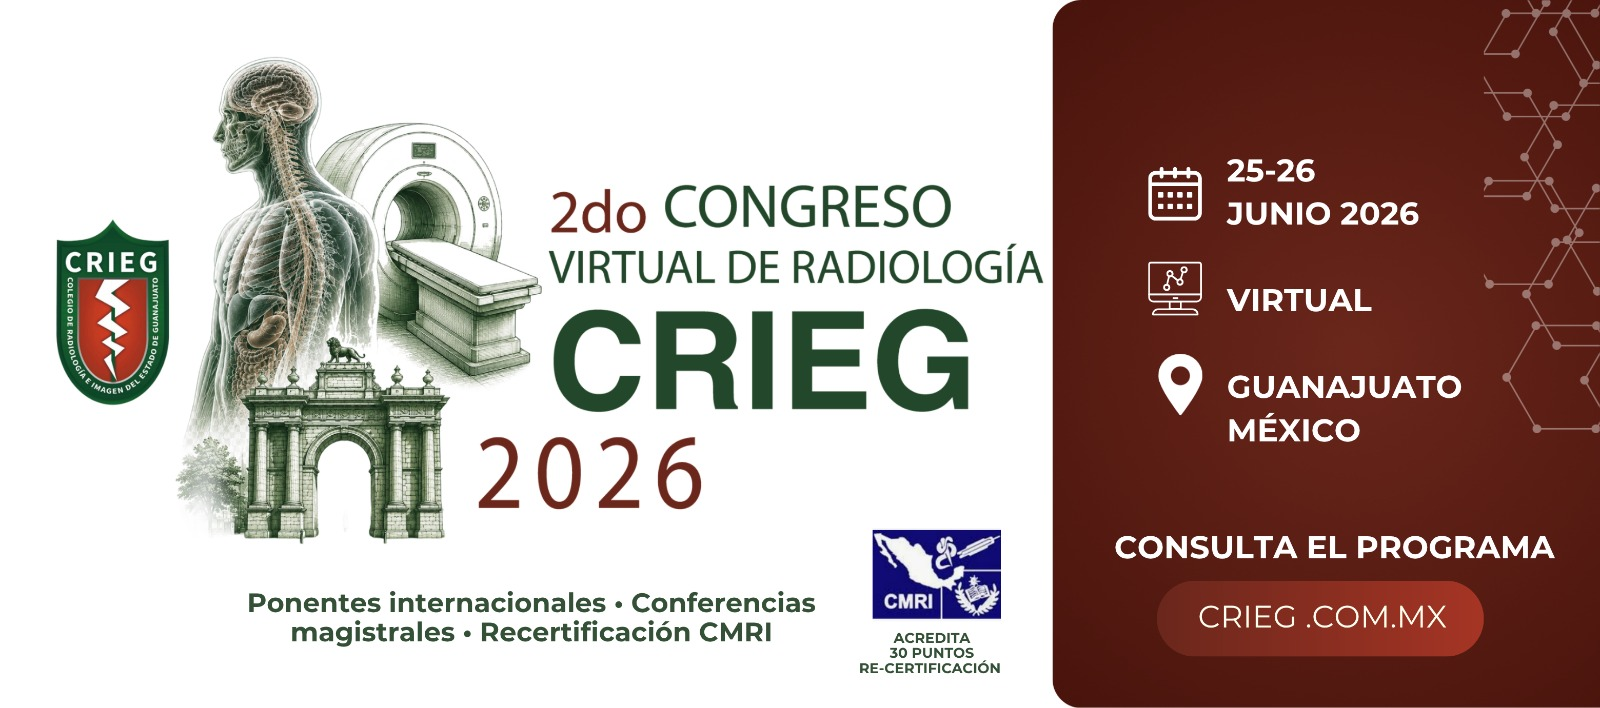
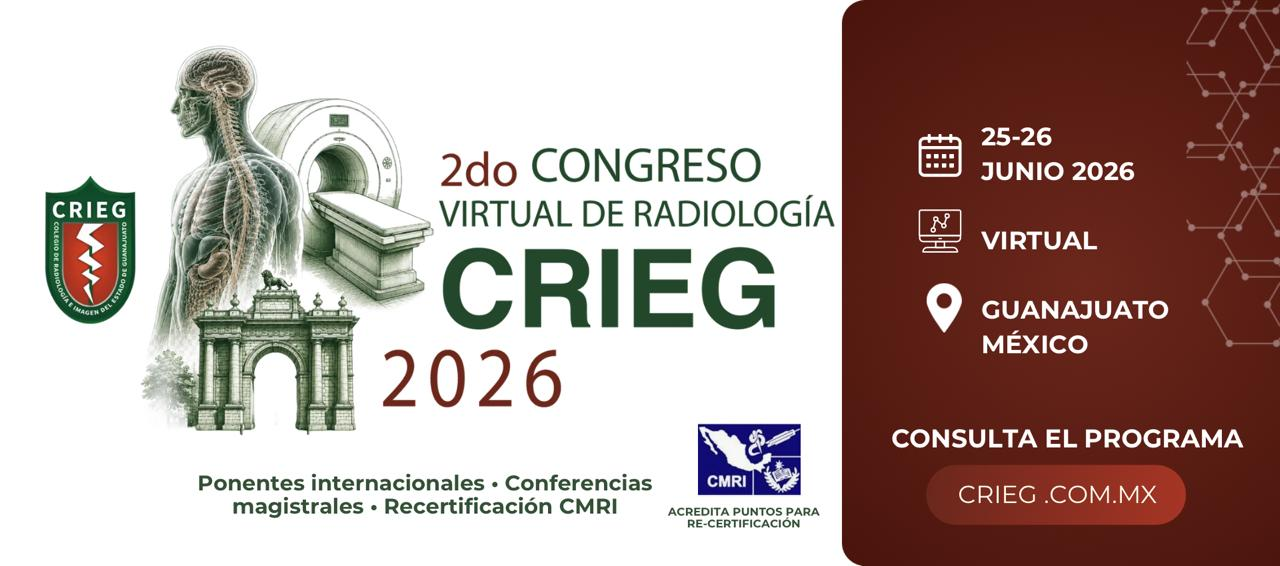
feat: Quitar timer y cambio de imagen

diff --git a/src/components/HeroBanner.tsx b/src/components/HeroBanner.tsx
@@ -5,13 +5,9 @@ import { ArrowUpRight, ScrollText } from "lucide-react";
 import Link from "next/link";
 import { useState, useEffect } from "react";
 
-const congresoActivo = new Date() >= new Date("2026-06-02T15:00:00");
-
 const slides = [
   { src: "/banner.webp", alt: "Banner CRIEG" },
-  ...(congresoActivo
-    ? [{ src: "/banner-congreso.webp", alt: "Congreso CRIEG 2026" }]
-    : []),
+  { src: "/banner-congreso.webp", alt: "Congreso CRIEG 2026" },
 ];
 
 export default function HeroBanner() {
@@ -24,11 +20,8 @@ export default function HeroBanner() {
     return () => clearInterval(timer);
   }, []);
 
-  const slide = slides[current];
-
   return (
     <section className="relative w-full h-screen sm:h-screen lg:h-full lg:min-h-[820px] overflow-hidden">
-      {/* Background images */}
       {slides.map((s, i) => (
         <div
           key={i}
@@ -46,26 +39,20 @@ export default function HeroBanner() {
         </div>
       ))}
 
-      {/* Top gradient */}
       <div className="absolute inset-x-0 top-0 bg-linear-to-b from-black/70 to-transparent h-[110px] sm:h-[130px] z-10" />
-
-      {/* Bottom overlay */}
       <div className="absolute inset-0 bg-linear-to-t from-black/70 to-transparent z-10" />
 
-      {/* Dots */}
-      {slides.length > 1 && (
-        <div className="absolute bottom-6 left-1/2 -translate-x-1/2 flex gap-2 z-20">
-          {slides.map((_, i) => (
-            <button
-              key={i}
-              onClick={() => setCurrent(i)}
-              className={`w-2.5 h-2.5 rounded-full transition-all ${
-                i === current ? "bg-white scale-125" : "bg-white/40"
-              }`}
-            />
-          ))}
-        </div>
-      )}
+      <div className="absolute bottom-6 left-1/2 -translate-x-1/2 flex gap-2 z-20">
+        {slides.map((_, i) => (
+          <button
+            key={i}
+            onClick={() => setCurrent(i)}
+            className={`w-2.5 h-2.5 rounded-full transition-all ${
+              i === current ? "bg-white scale-125" : "bg-white/40"
+            }`}
+          />
+        ))}
+      </div>
 
       {current === 1 && (
         <div className="absolute bottom-14 left-1/2 -translate-x-1/2 z-20">
@@ -81,7 +68,6 @@ export default function HeroBanner() {
         </div>
       )}
 
-      {/* Content — solo se muestra en el slide principal */}
       <div
         className={`absolute left-0 bottom-20 sm:bottom-24 lg:bottom-20 w-full flex justify-center items-center z-20 transition-opacity duration-500 ${
           current === 0 ? "opacity-100" : "opacity-0 pointer-events-none"
@@ -99,7 +85,6 @@ export default function HeroBanner() {
             <div className="flex gap-4">
               <Link
                 className="bg-[#0B4B2B] border border-[#07572f] px-6 py-3 rounded-full flex gap-3 cursor-pointer mt-4 items-center text-base sm:text-lg font-medium hover:bg-[#0D5C36] transition"
-                aria-label="Ir a Colegiarse"
                 href="/membership"
               >
                 Colegiarse
@@ -107,7 +92,6 @@ export default function HeroBanner() {
               </Link>
               <Link
                 className="border border-white px-6 py-3 rounded-full flex gap-3 cursor-pointer mt-4 items-center text-base sm:text-lg font-medium hover:bg-[#0D5C36] transition"
-                aria-label="Facturar"
                 href="/invoice"
               >
                 Facturar

diff --git a/src/components/CongresoPopup.tsx b/src/components/CongresoPopup.tsx
@@ -9,9 +9,8 @@ export default function CongresoPopup() {
   const [visible, setVisible] = useState(false);
 
   useEffect(() => {
-    const congresoActivo = new Date() >= new Date("2026-06-02T15:00:00");
     const yaVisto = sessionStorage.getItem("congreso-popup");
-    if (congresoActivo && !yaVisto) {
+    if (!yaVisto) {
       setTimeout(() => setVisible(true), 1000);
     }
   }, []);